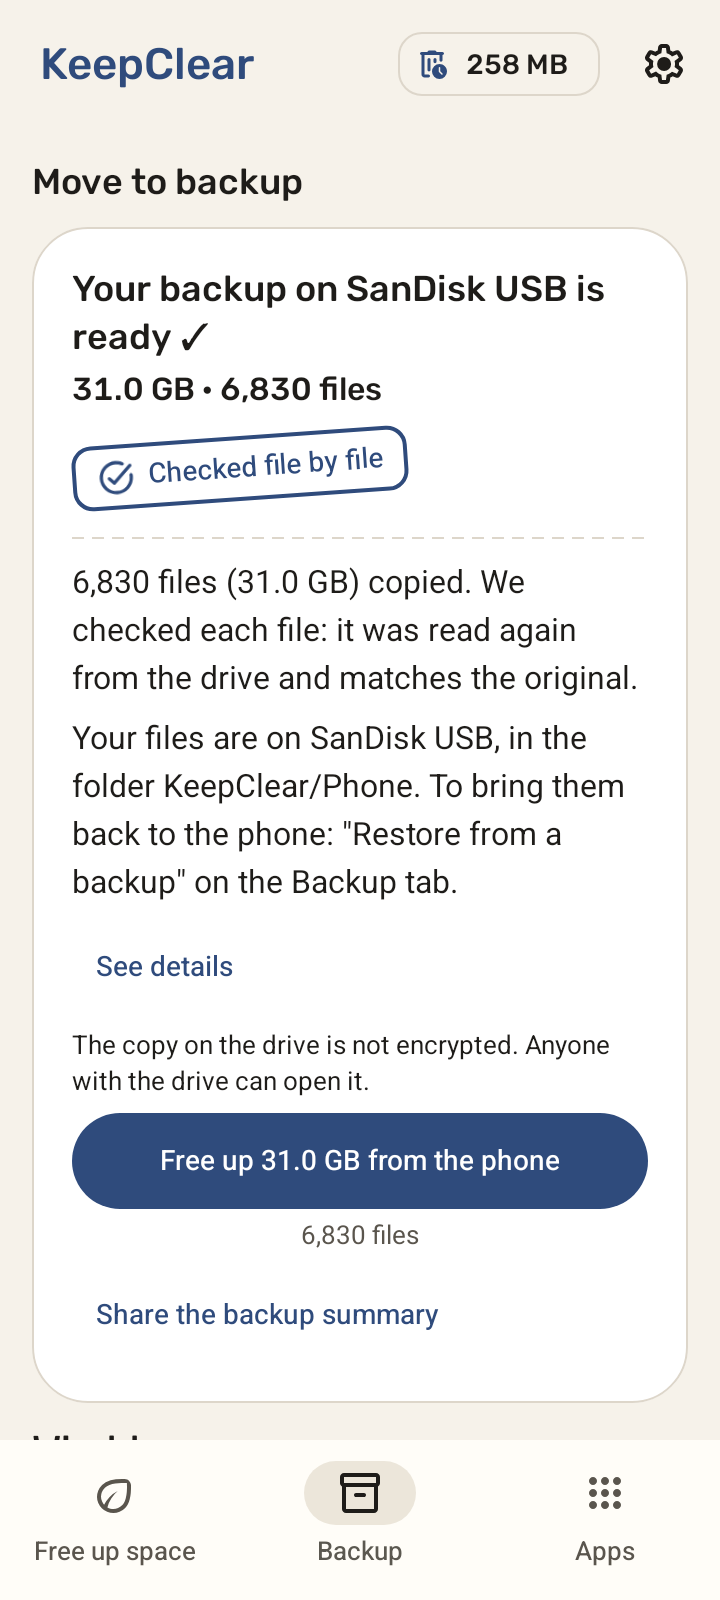
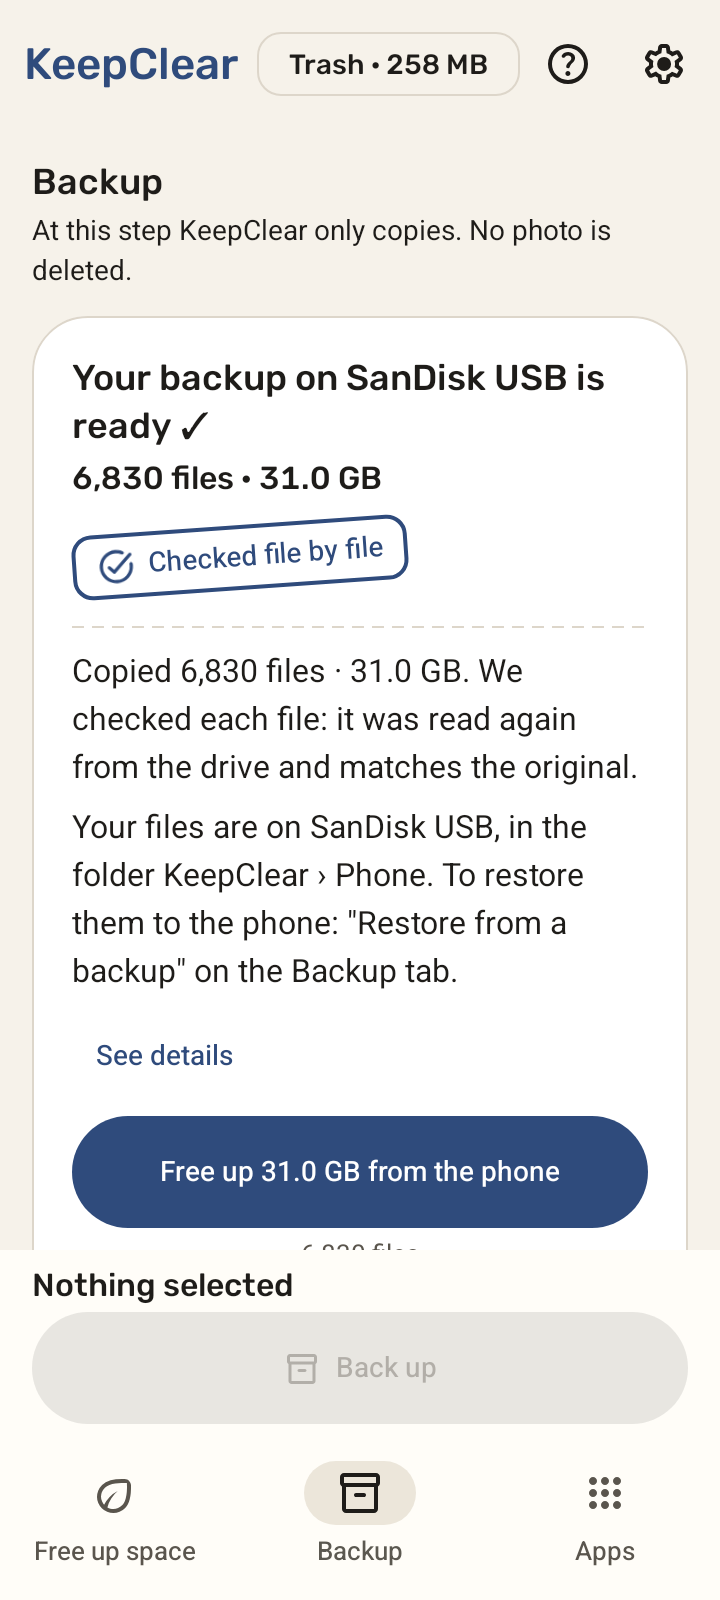
docs: PR H6 gallery „Final polish (H1–H5)” (before de5e351 → after), store screenshots refreshed plus 4_confirm, listing and changelog follow P1/P2 and H3, progress (row, C195-C198, findings), hebrew review
Claude-Session: https://claude.ai/code/session_01SRnKih2VccXWw3ykcXXeMH

diff --git a/docs/progress.md b/docs/progress.md
@@ -80,6 +80,7 @@ Scope and rules: the owner's review brief (PRs D, E, F1, F2, F3). Feature freeze
 | PR H3 help, trust, finish | local, not yet PR | — | Owner brief H3 items 1–7 (HELP-1…7; ux-flows § "H3"; decisions C161–C171). **1 Help** (`HelpScreen.kt`): offline topics as data (`HelpTopics`, string resources in `help.xml` per language, parity checked; H4 adds its two topics there), from a "?" in the main top bar and Settings' „עזרה” card; Settings' „איך משחזרים קבצים” links to the Trash and to „לשחזר מגיבוי”; the texts' facts are pinned to the code (`PermanentKinds`, `TrashPolicy`, `BatteryPolicy`, the quoted labels). **2 Report a problem** (`ReportProblem.kt`): a sheet with the editable email text (prompt + English facts from totals only, no paths), optional diagnostics file (the device check's report, release builds too) through a FileProvider limited to KeepClear's cache, ACTION_SENDTO `mailto:` (ACTION_SEND + mailto selector with the file), copy when no email app; address empty (W14). **3 Crash card** (`CrashReport.kt`): ApplicationExitInfo (crash, native crash, ANR) + KeepClear's own redacted Java trace, offered once on Home, shared through the share sheet; no SDK. **4 History** (`History.kt`, `HistoryScreen.kt`): versioned private file (C163), recorded from clean, consent, trash runs (empty/release/restore), last-copy confirm, cache trim, P1 free, restore from backup, finished backups and the daily purge; „פיניתם עד היום” counts only space really freed; test mode records nothing destructive (C164); `RestoreReport.restoredBytes` added. **5 About** (`AboutScreen.kt`): version and build, source, privacy, translations and credit (W15), licences as data checked against the build files and THIRD_PARTY.md (MIT text added for SLF4J, MBassador, Bouncy Castle); "What's new" gated by version code (none listed). **6 Icon**: three Paper & Ink adaptive options (vector, monochrome layers), option 1 is the launcher icon (both flavors) and the notification icon; [gallery](design/gallery.md#app-icon-options-pr-h3); core-splashscreen 1.2.0 (new dependency, steps of CLAUDE.md) with paper splash and window background, light and dark (W16 icon choice). **7 Shortcuts**: „לפנות מקום”, „סל המחזור”, „לגבות” (static, test builds have their own copy), navigation only. Tests: `H3HelpTest`, `H3ReportTest`, `H3HistoryTest`, `H3AboutTest`, `H3ShortcutsTest`, `H3ScreenshotTest` (help, topic, report, crash card, history, history empty, about, icon options; en/he, light/dark), `TerminologyTest` now reads help.xml, `RestoreEngineTest` (restored bytes). Mutations, each reverted once and seen to fail its test: clean not recorded, trash run (restore/empty) not recorded, a move to the trash counted as freed, test-mode results recorded (`H3HistoryTest`); the report's facts not cleaned, crash messages kept, an exit offered every launch, the attachment dropped (`H3ReportTest`); a shortcut that restores from the trash, any intent action taken as a shortcut (`H3ShortcutsTest`); a white window background, What's new on a first install, a licence missing (`H3AboutTest`); the restore card without its links, no question mark (`H3HelpTest`); restored bytes not counted (`RestoreEngineTest`); the Trash chip cut at 200 % with the new "?" (F3's existing test, C171). |
 | PR H4 platform and accessibility | local, not yet PR | — | Owner brief H4 items 1–9 (decisions C172–C186; ux-flows § "H4"). **1** `android:manageSpaceActivity` → `ManageSpaceActivity` (`ManageSpace.kt`, not exported, fully qualified: a relative name pointed into the test build's `.test` package, found by Robolectric): trash count and size, why "Clear storage" is replaced, „לפתוח את סל המחזור” (the Trash, where „לרוקן את הסל” keeps its second confirmation; nothing is wiped here, C173); `hasFragileUserData="true"`; Help topic „המקום של KeepClear והסרת ההתקנה”. **2** `enableOnBackInvokedCallback="true"`; no onBackPressed/KEYCODE_BACK (source scan); the root BackHandler stays enabled only when it pops something; `PredictiveBackHandler` in a group leaves the selection first (C174); sheets slide (window animation, none under "Remove animations"). **3** `NavigationSuiteScaffoldLayout` + `NavigationSuite` (material3-adaptive-navigation-suite 1.4.0, stable, from the Compose BOM; new dependency per CLAUDE.md: libs.versions.toml, verification metadata, verification-extras.py, PRIV-1 `androidx.`) with KeepClear's 600 dp threshold and labels (C180); `adjustResize` + `imePadding` on every sub-screen (`SubScreenFrame`, C182); scan and selections live in the ViewModels (rotation keeps them). **4** asked in context only (backup start, reminder switches; test that no other path asks); `NotificationChannels`: „התקדמות הגיבוי”, „תוצאות גיבוי” (new channel for results, C179), „תזכורות על מקום”, „תזכורות גיבוי”, registered at start and on every configuration (language) change; Settings › „התראות” rows open each channel's page. **5** `KillDetection.kt`: `ApplicationExitInfo` reasons → `StopCause`; a job found running gets STOPPED_BY_PHONE only for a system stop (LOW_MEMORY, EXCESSIVE_RESOURCE_USAGE, FREEZER, OTHER, SIGNALED, USER_REQUESTED, C172), INTERRUPTED for a crash (Home's crash card says it), an update, anything else or no record (replaces C125); the card adds „לאפשר לגיבוי לרוץ ברקע” (`ACTION_IGNORE_BATTERY_OPTIMIZATION_SETTINGS`, no restricted permission) and the maker's steps (`BatterySteps`, data: OnePlus, Samsung, Xiaomi/Redmi/POCO, Huawei/Honor, Oppo, Realme, Vivo/iQOO, general) with „לפתוח את המדריך המלא לטלפון הזה” (dontkillmyapp.com/<maker> in the browser); Help's „הגיבוי נעצר” ends with the same steps; Settings › „פתרון בעיות”: „הגיבוי רץ לאחרונה: …” (`BackupRunLog`). **6** `KcContrast` + medium/high schemes from `UiModeManager.getContrast()` (API 34+; `ContrastTest`: every pair passes and none gets weaker than standard, high ≥ 7:1 for text, C176); filled buttons and the confirm button 56 dp, others ≥ 48 dp (C175); paneTitle on ConfirmSheet; Trash rows have Restore / „לפנות עכשיו” custom actions; app rows merge; every animation honours reducedMotion (scan); there is no timed undo (C181). **7** API 30–32: the in-app language is KeepClear's own setting applied in `attachBaseContext` of the application, activities and the service (`AppLanguage`, no AppCompat, C177); `generateLocaleConfig = true` (+ `res/resources.properties`, the hand-written locales_config.xml removed); „לבחור בהגדרות של אנדרואיד” opens `ACTION_APP_LOCALE_SETTINGS` on 33+; `Languages.isHebrew` (he and iw) with a scan for one-spelling comparisons; every Hebrew plural has one/two/other (test; all already did). **8** `AppArchive`: on API 35+ „לארכב” when `PackageManager.isAppArchivable`, through `PackageInstaller.requestArchive` and Android's own confirmation (`ArchiveStatusReceiver` opens only a system activity, C178), blocked in test mode like Uninstall; rows show „אפליקציה … · נתונים … · קבצים זמניים …” (`AppSizes`). **9** `checkForbiddenApis` now also rejects Java 21 `List` methods (removeFirst/removeLast/getFirst/getLast/addFirst/addLast/reversed) in compiled classes (build-logic, C183); Help „מרחב פרטי”; `ManifestPolicy` (merged manifest): manage space, fragile data, predictive back, localeConfig, and no BOOT_COMPLETED listener except WorkManager's; `scripts/check-16kb-pages.py` on the release APKs in CI (one .so today, Compose's graphics-path, aligned; C184). Tests: `H4aPlatformTest`, `H4bAccessibilityTest`, `H4ScreenshotTest` (manage_space, troubleshooting, kill_card, home_high_contrast, home_largest at 200 % on a 290 dp screen; en/he, light/dark), `ContrastTest`, `ManifestPolicyTest`, `ForbiddenApisTest`, `H1bFlowTest` (item 8 now with a recorded exit), `H3HelpTest` (ten topics), `H2aHomeTest` (the phone's stop has a next step). Mutations, each seen to fail its test (`H4aPlatformTest`, `H4bAccessibilityTest`, `ContrastTest`, `ManifestPolicyTest`, `ForbiddenApisTest`): every found job STOPPED_BY_PHONE; the selection's Back handler off; no sheet animation; no `imePadding`; channel names from the application context (English under Hebrew); filled buttons 48 dp; no wrap below Android 13; Archive offered below API 35; Archive not blocked in test mode; no pane title; a relative manage-space name (Robolectric showed the `.test` package before the fix); a weaker high-contrast secondary text; the last run not recorded; no Trash-row custom actions; the List-method check off; the fragile-data check off; the boot-receiver check off. |
 | PR H5 power users | local, not yet PR | — | Owner brief H5 (POW-1…7; ux-flows § "H5"; decisions C187–C193). **Review group tools** (`GroupTools.kt`, `ReviewScreens.kt` `GroupToolsPanel`, `SelectionBar`, `LargestSheet`): a folded „למיין ולסנן” text button opens search (H1c's `GridSearch`, by name or date), „מהחדש לישן” (default, the month sections unchanged) / „מהישן לחדש” / „מהגדול לקטן” (one list), years („כל השנים” and each year of the group); with a filter „מוצגים N מתוך M” + „להציג הכול”, and „לבחור הכול” becomes „לבחור את כל המוצגים” (shown files only, C188); „לבחור את הגדולים ביותר” → sheet with 10/25/50/100 (only below the shown count, each with its size) selecting exactly the N largest shown, only on that tap (SAFETY rule 7, C189); the plan still goes through `CleanPlanner` and the choke point (SAFETY-8). Selection bar above the delete button: „נבחרו: N קבצים · X” (`countAndSize`), „N מהם לא מוצגים עכשיו”, „לבטל את הבחירה”. **Rules** (`UserChoices.kt` `UserRules`, `SettingsScreen.kt` `RuleRow`): Settings' card is „הכללים שלכם” with a line that cancelling never touches files; each rule shows its kind, the place in plain words (`HumanLocation.phonePlace`) and what it matched in the latest scan (only files the classifier really put under that rule, C190), with „לבטל את הבחירה” (key `rule_cancel`; `choice_remove` „להסיר” removed). After „לא להציע את זה שוב” a `NoticeBar` (new, core:designsystem) „KeepClear לא יציע שוב את <name>.” with „חזרה” (undo = cancel that rule), ≥ 10 s or Android's `getRecommendedTimeoutMillis`, whichever is longer (C191; C181's pin still holds). **Test mode export** (`TestExport.kt`): a test-mode clean keeps its would-delete ops (`CleanResult.wouldDelete`); the simulated result banner offers „לייצא את הרשימה” only when test mode is on → a sheet says the list has names, folders and sizes and is saved only where chosen → `ACTION_CREATE_DOCUMENT` (`text/csv`) → written off the main thread, only while test mode is still on; CSV `path,size_bytes,would` with RFC 4180 quoting and spreadsheet-formula neutralising (C193); PRIVACY.md "Test mode's list". **SMB** (`SmbFields` in `backup:target-smb`, `NetworkDriveDialog`): port („445”, empty = 445, 1–65535 digits only), folder inside the share (optional, „Backups/Phone”; no leading `/` or `\`, no `\`, `:`, `.`/`..` or empty segment), domain (optional, plain name; now also required by `SmbLocation`'s init); all with „אפשר להשאיר ריק” hints and errors under the field; saved values come back; `HostRule.NetworkOnly` unchanged. Discovery not built (C192). Tests: `H5PowerUsersTest` (21), `SmbFieldsTest` (4), `H5ScreenshotTest` (group_tools, rules, test_export, network_form; en/he, light/dark), `HebrewVoiceTest` (rule_cancel infinitive). Mutations, each reverted once and seen to fail: largest sorted ascending (2 tests); year filter ignored (2); „לבטל את הבחירה” calling nothing; any rule id counted as a match (after the test got a memory in a junk folder: the first version didn't catch it); no keep notice; a 4 s notice; no formula guard in the CSV; export offered with test mode off (2); the VM not keeping the list; the form dropping the port; select-all over the whole group with a filter; the largest pre-selected when the panel opens (2); `SmbFields.port` without the range; `SmbLocation` without the domain check; the folder check dropping empty segments ("/abs", "a//b" accepted). The explicit leading-`/` check alone is an equivalent mutant (the segment check also refuses it). |
+| PR H6 screenshots, gallery, store | local, not yet PR | — | Owner brief H6 (UI-3; decisions C195–C198). **Inventory:** of the named screens, first-run Home (`home_access`), post-clean Home (`result`), „הכול נקי ✓” (`home_all_clean`), backup mode (`backup_progress`), trash grid, restore sheet, help, intro pages and icon options already had en/he × light/dark pictures from H1–H5; Home, clean confirm, swipe and trash also at 200 %; tablet only Home (light). **Added** (`H6ScreenshotTest`, en/he × light/dark): `backup_copied` („הועתק ✓ · שלב אחרון: בדיקה”, no stamp), the re-plug check's four live states `backup_check_unplug` / `_plugback` / `_checking` / `_done` (stamp), `free_confirm` (P1/P2/P4: 6,830 originals with 120 favourites, 305 recent and WhatsApp photos; button ready) and `free_result` (measured). At 200 % (`KeyScreensScreenshotTest`, API 36): `home_access`, `home_all_clean`, `backup`, `backup_progress`, `free_confirm`. Tablet (`TabletScreenshotTest`, 1280 × 800 dp, Hebrew light + English dark, C195): `tablet_home`, `tablet_trash`, `tablet_backup_progress`, `tablet_swipe`, `tablet_free_confirm`, `tablet_help`; screens shown without `AppScreens` keep its readable width (`Shots.show(alone = true)`). **Fix (C197):** the Trash chip was cut at 100 % font on a 360 dp phone („Trash · 25…”, and „סל” missing in Hebrew) since the „?” joined the bar; the bar now goes compact (no chip icon, no gaps, as at ≥ 150 %) when the chip's words don't fit; `F3ScreensTest` (+2, en and he) failed with the fix reverted (both). Screenshots of every main tab re-recorded for it. **Gallery:** [„Final polish (H1–H5)”](design/gallery.md#final-polish-h1h5), before = de5e351 (C196). **Store:** `1_home`, `2_review`, `3_backup` refreshed from the new screenshots and a new `4_confirm` (the clean confirmation with „התמונות, הסרטונים והצ'אטים שלכם לא נמחקים.”) in both locales (C198); full description mentions the second check after re-plugging, favourites and the last 30 days kept on the phone, and Help/history; the changelog no longer says the trash restores "anything" (P1 and the rebuild kinds are deleted for good). **Findings (not fixed, too big for H6):** (1) the free confirmation's third row is still labelled „לאן” / "Where it goes" while its value says what happens („יימחקו מהטלפון; העותק נשאר ב-…”); H2 item 5 renamed only the clean confirmation's row to „מה יקרה”. (2) On a tablet the `ConfirmSheet` spans the whole 1280 dp width (no sheet max width), so lines run very long (`tablet_free_confirm`). (3) The free confirmation's WhatsApp line has no full stop (it is the brief's text verbatim). (4) On a tablet the swipe review is a full-window dialog (`usePlatformDefaultWidth = false`), so the card and its buttons stretch over 1280 dp instead of the readable width (`tablet_swipe`). |
 
 ## Test build for the phone (no computer needed)
 
@@ -361,6 +362,10 @@ C1–C26 were approved by the owner on 2026-11-02. New conservative decisions co
 | C192 | PR H5: no "מחפש מחשבים ברשת…" discovery; the form keeps manual entry with hints. Android's `NsdManager` needs no extra permission on API 30–36, but (1) at targetSdk 37 local-network discovery needs the new runtime permission `ACCESS_LOCAL_NETWORK` (research 04 §9), so the feature would bring a permission prompt with the next target bump; (2) Windows PCs, the usual "computer at home", don't announce SMB over mDNS (`_smb._tcp`), so the list would mostly be empty or show only NAS boxes, which reads as "your computer wasn't found"; (3) it can't be checked on the owner's network from here. Manual entry with „445” / „אפשר להשאיר ריק” is what the brief's fallback asks for. Revisit with W19. |
 | C193 | PR H5: the export is a CSV (`text/csv`, UTF-8, CRLF, English column names `path,size_bytes,would`, values `trash` / `delete_for_good`) saved through Android's "create document" screen, not the share sheet: the user picks a place they own, nothing passes through another app, and no FileProvider or cache copy is needed. File names are untrusted (threat model): cells are quoted per RFC 4180, line breaks flattened, and a cell starting with `= + - @` or a tab gets a leading apostrophe (CSV injection). It is written only if test mode is still on when Android returns the place. |
 | C194 | PR #60 (reproducible build): the check failed on 3af3ea5 (`classes.dex` and `assets/dexopt/baseline.prof` differed: the continuation parameter of kotlinx.coroutines' private `FlowKt__LimitKt.emitAbort` was typed `Continuation` in one build and `ContinuationImpl` in the other). **Cause:** AGP 9's default R8 *optimized resource shrinking* hands R8 the merged, not-compiled resources under their **absolute paths** (`…/app/build/intermediates/merged-not-compiled-resources/…`), and R8 9.5.28's code optimisation depends on those names and their order. Evidence: two clones of 3af3ea5 at different paths, same Gradle home and environment, gave exactly CI's two APKs (`1324c245…` at /home/user/kc-r8, `eaa3b878…` at /home/user/kc-r8b-second-checkout); R8's input dumps (`-Dcom.android.tools.r8.dumpinputtodirectory`) of the two were byte-identical except for that path prefix in the resource entries; R8 run alone on one dump flips between the two results when only the prefix or only the resource order is changed, and does not change with the program class order or the thread count; time zone, Java locale (he_IL) and umask 077 changed nothing. The commits after 4137abb only tipped R8. R8 9.5.29 (newest 9.5) behaves the same; a keep rule on `emitAbort` only moved the difference to its `access$` accessor, so a rule would chase each suspend function R8 happens to tip. **Fix:** `android.r8.optimizedResourceShrinking=false` in gradle.properties: R8 gets no resource input, and AGP's separate resource shrinker shrinks resources. Same APK entries; `resources.arsc` +2 KB, `classes.dex` +156 bytes. Verified: the two clones at different paths, the second with TZ Pacific/Kiritimati, Java locale he_IL and umask 077, give byte-identical APKs (`f0acb8a6…`). The option is deprecated (AGP prints a warning on every build) and is removed in AGP 10: before that upgrade, check with `scripts/reproducible-build.sh` whether R8 still depends on the resource paths. The reproducibility check itself is unchanged. |
+| C195 | PR H6: the tablet set is Hebrew light and English dark only (6 screens: Home, trash grid, backup mode, swipe, free confirm, Help), not the full en/he × light/dark cross product, and the new 200 % pictures are API 36 only (API 30 keeps Home and the clean confirm, C96): enough to see the rail, the readable width and both directions, while keeping CI time and the repository small. The re-plug check is pictured in all four live states. |
+| C196 | PR H6: the gallery's "before" is main de5e351 (PR H1a's parent, the commit the brief was written against), extracted with `git show de5e351:app/src/test/screenshots/<screen>_iw_light_api36.png` and scaled to 360 px like the earlier gallery (PIL, Lanczos, 256 colours). Screens with no picture at de5e351 (all-clean Home, free confirm and result, the re-plug check, Help) say "new screen"/"no screenshot" instead of being rendered from an old worktree: the free confirmation existed there but was a different flow (to the trash), and rendering it would need de5e351's whole build. The old placeholder icon has no screenshot; it is drawn from its own vector path data at de5e351 (white check in a ring on #1F5F4F). |
+| C197 | PR H6: the Trash chip's words were cut at 100 % font on a 360 dp phone (English „Trash · 25…”; Hebrew lost „סל”), seen in the committed screenshots since H3 added the „?” to the bar; the 200 % test (C171) didn't cover 100 %. Smallest fix: when the chip's text overflows once, the bar uses the existing compact layout of ≥ 150 % font (no chip icon, no gaps between the bar's items; icon buttons keep 48 dp). It stays compact for that composition (switching back would cut the words again and flip every frame). Real phones wider than ~390 dp are unchanged. |
+| C198 | PR H6: store screenshots stay copies of the light API 36 screenshot tests (C102), now `1_home`, `2_review`, `3_backup` (the receipt with „לפנות 31.0GB מהטלפון”) and a new `4_confirm` (the clean confirmation: what happens, the reassurance line, the ready button), same 720 × 1600 px, en-US and iw-IL. Swipe, trash and free confirm were not added, to keep the listing to the one-tap promise, choosing, backing up, and the safety line. |
 | C1 | Last-copy guard (owner 1.3): when a trashed archive lists this file as an extracted witness (sizes differ, so no same-hash check is possible), the file is also treated as the last copy and needs the confirm. |
 
 ## Waiting for owner

diff --git a/docs/hebrew-review.md b/docs/hebrew-review.md
@@ -960,7 +960,7 @@ Status compares each string with `docs/hebrew-review-reviewed.json` (the texts a
 
 | File | English | עברית |
 |---|---|---|
-| `changelogs/1.txt` | First version.<br>• Files you don't need cleared in one tap; everything else explained, and you decide.<br>• Photos and videos backed up to your own USB drive or network folder: copied, checked, and space freed only when you say so.<br>• 30-day trash: restore anything with one tap.<br>• Apps by size, duplicate review with a swipe, restore from a backup, an optional low-space reminder.<br>• English and Hebrew. | גרסה ראשונה.<br>• קבצים מיותרים מתנקים בלחיצה אחת; כל השאר מוסבר, וההחלטה שלכם.<br>• גיבוי תמונות וסרטונים לדיסק און קי או לתיקיית רשת שלכם: מועתקים, נבדקים, והמקום מתפנה רק כשמבקשים.<br>• סל המחזור ל-30 יום: אפשר לשחזר הכול בלחיצה אחת.<br>• אפליקציות לפי גודל, מעבר על כפילויות בהחלקה, שחזור מגיבוי, תזכורת לא חובה כשהמקום נגמר.<br>• עברית ואנגלית. |
-| `full_description.txt` | KeepClear finds what takes space on your phone and explains each thing in plain words. Nothing is deleted without asking you, and most of what you clean can come back for 30 days.<br><br><b>How it sorts what it finds</b> (on the "Free up space" and "Backup" tabs)<br><ul><br><li><b>Clean now</b>: temporary files, thumbnails, files already in other apps' bins. Cleared in one tap.</li><br><li><b>Choose what to delete</b>: large videos, screenshots, AI images, duplicates, old downloads, WhatsApp and Telegram media. Each item says why it was found and what happens if you delete it. Nothing is deleted unless you choose it, and nothing is selected for you.</li><br><li><b>Back up</b>: your photos and videos are never just deleted. KeepClear backs them up to your own USB drive, a folder you choose, or a shared folder on your computer or home server, reads every copy back to check it, shows you a receipt, and frees up space only when you tap "Free up" and confirm.</li><br></ul><br><br><b>Most of it can come back</b><br>Most of what you clean waits 30 days in the trash. Files that rebuild themselves are deleted right away. Restore it with one tap, or empty it sooner if you want the space now (KeepClear asks twice).<br><br><b>Also</b><br><ul><br><li>The Apps tab: see which apps use the most space and which you have not opened in about 6 months, and uninstall through Android's own window.</li><br><li>Go through a group (screenshots, for example) one by one with a swipe.</li><br><li>Restore files from a backup you made with KeepClear.</li><br><li>An optional reminder when space runs low. It only reminds; it never cleans by itself.</li><br><li>English and Hebrew, light and dark themes.</li><br></ul><br><br><b>Permissions, honestly</b><br>This build asks for <b>All files access</b>, so it can find WhatsApp media, folders from an old phone, other apps' bins and leftover files. It also asks, only when you use the feature, for usage access (to show app sizes and when apps were last opened), the list of installed apps, notifications (backup progress) and network access (only for backups to a shared folder you set up, at the address you typed). Every permission is optional and explained before Android asks; KeepClear works with less if you say no.<br><br><b>Private by design</b><br>No ads, no analytics, no crash reporting, no account. Nothing about you or your files is sent anywhere. KeepClear is free software under the GNU GPL, version 3 or later. | KeepClear מוצא מה תופס מקום בטלפון ומסביר כל דבר במילים פשוטות. שום דבר לא נמחק בלי לשאול, ואת רוב מה שמנקים אפשר לשחזר במשך 30 יום.<br><br><b>איך הממצאים מסודרים</b> (בלשוניות „לפנות מקום” ו„גיבוי”)<br><ul><br><li><b>לנקות עכשיו</b>: קבצים זמניים, תמונות ממוזערות, קבצים שכבר נמצאים בסלים של אפליקציות אחרות. מתנקה בלחיצה אחת.</li><br><li><b>לבחור מה למחוק</b>: סרטונים גדולים, צילומי מסך, תמונות שנוצרו ב-AI, כפילויות, הורדות ישנות, מדיה של וואטסאפ וטלגרם. ליד כל פריט כתוב למה הוא נמצא ומה יקרה אם מוחקים אותו. שום דבר לא נמחק בלי שתבחרו, ושום דבר לא מסומן מראש.</li><br><li><b>לגבות</b>: תמונות וסרטונים אף פעם לא פשוט נמחקים. KeepClear מגבה אותם לדיסק און קי שלכם, לתיקייה שבוחרים או לתיקייה משותפת במחשב או בשרת הביתי, קורא כל עותק שוב כדי לבדוק אותו, מציג אישור, ומפנה מקום רק כשלוחצים על „לפנות” ומאשרים.</li><br></ul><br><br><b>את רוב הדברים אפשר לשחזר</b><br>רוב מה שמנקים מחכה 30 יום בסל המחזור. קבצים שנבנים מחדש לבד נמחקים מיד. אפשר לשחזר בלחיצה אחת, או לרוקן מוקדם יותר כשצריך את המקום עכשיו (KeepClear שואל פעמיים).<br><br><b>ועוד</b><br><ul><br><li>הלשונית „אפליקציות”: לראות אילו אפליקציות תופסות הכי הרבה מקום ובאילו לא השתמשו כחצי שנה, ולהסיר אותן דרך החלון של אנדרואיד עצמו.</li><br><li>לעבור על קבוצה (למשל צילומי מסך) אחד-אחד, בהחלקה.</li><br><li>לשחזר קבצים מגיבוי שנעשה עם KeepClear.</li><br><li>תזכורת לא חובה כשהמקום נגמר. היא רק מזכירה, ואף פעם לא מנקה לבד.</li><br><li>עברית ואנגלית, ערכת נושא בהירה וכהה.</li><br></ul><br><br><b>הרשאות, בגלוי</b><br>הגרסה הזו מבקשת <b>גישה לכל הקבצים</b>, כדי למצוא מדיה של וואטסאפ, תיקיות מהטלפון הקודם, סלים של אפליקציות אחרות וקבצים שנשארו. היא מבקשת גם, רק כשמשתמשים בתכונה, גישה לנתוני שימוש (כדי להציג את הגודל של כל אפליקציה ומתי נפתחה לאחרונה), את רשימת האפליקציות המותקנות, התראות (התקדמות הגיבוי) וגישה לרשת (רק לגיבוי לתיקייה משותפת שהוגדרה, בכתובת שהוקלדה). כל ההרשאות לא חובה, וכל אחת מוסברת לפני שאנדרואיד שואל; KeepClear עובד גם עם פחות.<br><br><b>פרטיות מהיסוד</b><br>בלי פרסומות, בלי ניתוח שימוש, בלי דיווחי קריסה, בלי חשבון. שום דבר עליכם או על הקבצים שלכם לא נשלח לשום מקום. KeepClear הוא תוכנה חופשית ברישיון GNU GPL, גרסה 3 ואילך. |
+| `changelogs/1.txt` | First version.<br>• Files you don't need cleared in one tap; everything else explained, and you decide.<br>• Photos and videos backed up to your own USB drive or network folder: copied, checked, and space freed only when you say so.<br>• Most of what you clean waits 30 days in the trash: restore it with one tap.<br>• Apps by size, duplicate review with a swipe, restore from a backup, an optional low-space reminder.<br>• English and Hebrew. | גרסה ראשונה.<br>• קבצים מיותרים מתנקים בלחיצה אחת; כל השאר מוסבר, וההחלטה שלכם.<br>• גיבוי תמונות וסרטונים לדיסק און קי או לתיקיית רשת שלכם: מועתקים, נבדקים, והמקום מתפנה רק כשמבקשים.<br>• רוב מה שמנקים מחכה 30 יום בסל המחזור: אפשר לשחזר בלחיצה אחת.<br>• אפליקציות לפי גודל, מעבר על כפילויות בהחלקה, שחזור מגיבוי, תזכורת לא חובה כשהמקום נגמר.<br>• עברית ואנגלית. |
+| `full_description.txt` | KeepClear finds what takes space on your phone and explains each thing in plain words. Nothing is deleted without asking you, and most of what you clean can come back for 30 days.<br><br><b>How it sorts what it finds</b> (on the "Free up space" and "Backup" tabs)<br><ul><br><li><b>Clean now</b>: temporary files, thumbnails, files already in other apps' bins. Cleared in one tap.</li><br><li><b>Choose what to delete</b>: large videos, screenshots, AI images, duplicates, old downloads, WhatsApp and Telegram media. Each item says why it was found and what happens if you delete it. Nothing is deleted unless you choose it, and nothing is selected for you.</li><br><li><b>Back up</b>: your photos and videos are never just deleted. KeepClear backs them up to your own USB drive, a folder you choose, or a shared folder on your computer or home server, reads every copy back to check it, checks it once more after you unplug the drive and plug it back in, shows you a receipt, and frees up space only when you tap "Free up" and confirm. Favourites and the last 30 days stay on the phone unless you choose otherwise.</li><br></ul><br><br><b>Most of it can come back</b><br>Most of what you clean waits 30 days in the trash. Files that rebuild themselves are deleted right away. Restore it with one tap, or empty it sooner if you want the space now (KeepClear asks twice).<br><br><b>Also</b><br><ul><br><li>The Apps tab: see which apps use the most space and which you have not opened in about 6 months, and uninstall through Android's own window.</li><br><li>Go through a group (screenshots, for example) one by one with a swipe.</li><br><li>Restore files from a backup you made with KeepClear.</li><br><li>Help inside the app, also offline, and a history of what KeepClear did.</li><br><li>An optional reminder when space runs low. It only reminds; it never cleans by itself.</li><br><li>English and Hebrew, light and dark themes.</li><br></ul><br><br><b>Permissions, honestly</b><br>This build asks for <b>All files access</b>, so it can find WhatsApp media, folders from an old phone, other apps' bins and leftover files. It also asks, only when you use the feature, for usage access (to show app sizes and when apps were last opened), the list of installed apps, notifications (backup progress) and network access (only for backups to a shared folder you set up, at the address you typed). Every permission is optional and explained before Android asks; KeepClear works with less if you say no.<br><br><b>Private by design</b><br>No ads, no analytics, no crash reporting, no account. Nothing about you or your files is sent anywhere. KeepClear is free software under the GNU GPL, version 3 or later. | KeepClear מוצא מה תופס מקום בטלפון ומסביר כל דבר במילים פשוטות. שום דבר לא נמחק בלי לשאול, ואת רוב מה שמנקים אפשר לשחזר במשך 30 יום.<br><br><b>איך הממצאים מסודרים</b> (בלשוניות „לפנות מקום” ו„גיבוי”)<br><ul><br><li><b>לנקות עכשיו</b>: קבצים זמניים, תמונות ממוזערות, קבצים שכבר נמצאים בסלים של אפליקציות אחרות. מתנקה בלחיצה אחת.</li><br><li><b>לבחור מה למחוק</b>: סרטונים גדולים, צילומי מסך, תמונות שנוצרו ב-AI, כפילויות, הורדות ישנות, מדיה של וואטסאפ וטלגרם. ליד כל פריט כתוב למה הוא נמצא ומה יקרה אם מוחקים אותו. שום דבר לא נמחק בלי שתבחרו, ושום דבר לא מסומן מראש.</li><br><li><b>לגבות</b>: תמונות וסרטונים אף פעם לא פשוט נמחקים. KeepClear מגבה אותם לדיסק און קי שלכם, לתיקייה שבוחרים או לתיקייה משותפת במחשב או בשרת הביתי, קורא כל עותק שוב כדי לבדוק אותו, בודק שוב אחרי שמנתקים את הדיסק און קי ומחברים אותו מחדש, מציג אישור, ומפנה מקום רק כשלוחצים על „לפנות” ומאשרים. מועדפים ו-30 הימים האחרונים נשארים בטלפון, אלא אם בוחרים אחרת.</li><br></ul><br><br><b>את רוב הדברים אפשר לשחזר</b><br>רוב מה שמנקים מחכה 30 יום בסל המחזור. קבצים שנבנים מחדש לבד נמחקים מיד. אפשר לשחזר בלחיצה אחת, או לרוקן מוקדם יותר כשצריך את המקום עכשיו (KeepClear שואל פעמיים).<br><br><b>ועוד</b><br><ul><br><li>הלשונית „אפליקציות”: לראות אילו אפליקציות תופסות הכי הרבה מקום ובאילו לא השתמשו כחצי שנה, ולהסיר אותן דרך החלון של אנדרואיד עצמו.</li><br><li>לעבור על קבוצה (למשל צילומי מסך) אחד-אחד, בהחלקה.</li><br><li>לשחזר קבצים מגיבוי שנעשה עם KeepClear.</li><br><li>עזרה בתוך האפליקציה, גם בלי אינטרנט, ורשימה של מה ש-KeepClear עשה.</li><br><li>תזכורת לא חובה כשהמקום נגמר. היא רק מזכירה, ואף פעם לא מנקה לבד.</li><br><li>עברית ואנגלית, ערכת נושא בהירה וכהה.</li><br></ul><br><br><b>הרשאות, בגלוי</b><br>הגרסה הזו מבקשת <b>גישה לכל הקבצים</b>, כדי למצוא מדיה של וואטסאפ, תיקיות מהטלפון הקודם, סלים של אפליקציות אחרות וקבצים שנשארו. היא מבקשת גם, רק כשמשתמשים בתכונה, גישה לנתוני שימוש (כדי להציג את הגודל של כל אפליקציה ומתי נפתחה לאחרונה), את רשימת האפליקציות המותקנות, התראות (התקדמות הגיבוי) וגישה לרשת (רק לגיבוי לתיקייה משותפת שהוגדרה, בכתובת שהוקלדה). כל ההרשאות לא חובה, וכל אחת מוסברת לפני שאנדרואיד שואל; KeepClear עובד גם עם פחות.<br><br><b>פרטיות מהיסוד</b><br>בלי פרסומות, בלי ניתוח שימוש, בלי דיווחי קריסה, בלי חשבון. שום דבר עליכם או על הקבצים שלכם לא נשלח לשום מקום. KeepClear הוא תוכנה חופשית ברישיון GNU GPL, גרסה 3 ואילך. |
 | `short_description.txt` | Free up space: clean in one tap, the rest explained, photos backed up first | לפנות מקום בטלפון: לנקות בלחיצה אחת, הסבר לכל השאר, גיבוי לתמונות לפני הכול |
 | `title.txt` | KeepClear | KeepClear |

diff --git a/docs/design/gallery.md b/docs/design/gallery.md
@@ -67,3 +67,45 @@ Hebrew, light theme, from the screenshot tests (`H3ScreenshotTest`; English and 
 | Help | A topic | Report a problem | After a crash | What KeepClear did | About |
 |---|---|---|---|---|---|
 | ![Help](../../app/src/test/screenshots/help_iw_light_api36.png) | ![Help topic](../../app/src/test/screenshots/help_topic_iw_light_api36.png) | ![Report](../../app/src/test/screenshots/report_iw_light_api36.png) | ![Crash card](../../app/src/test/screenshots/crash_card_iw_light_api36.png) | ![History](../../app/src/test/screenshots/history_iw_light_api36.png) | ![About](../../app/src/test/screenshots/about_iw_light_api36.png) |
+
+## Final polish (H1–H5)
+
+The owner's final-polish brief (2026-11-03), PR H6. **Before** is main **de5e351**, the commit the H round started from (PR H1a's parent): the
+screenshots committed there (`git show de5e351:app/src/test/screenshots/<screen>_iw_light_api36.png`). Where de5e351 had no
+screenshot of the screen, the row says "new screen" and why (progress C196). **After** is the screenshot tests at PR H6
+(`app/src/test/screenshots/*_iw_light_api36.png`). Both Hebrew, light theme, on the owner-shaped phone (`OwnerPhone`),
+scaled to 360 px wide like the rows above. English, dark, 200 % and tablet (`tablet_*`) are next to them in
+`app/src/test/screenshots/`. Also new in PR H6: the Trash chip no longer cuts its words on a 360 dp phone (progress C197),
+so every main tab's top bar in "after" differs from H5's screenshots there.
+
+| Screen | Before (de5e351) | After |
+|---|---|---|
+| First-run Home: one access card, lanes say „יופיע אחרי האישור” (H2 item 2) | ![First-run Home before](gallery/h-before/home_access.png) | ![First-run Home after](gallery/h-after/home_access.png) |
+| Clean confirm: „מה יקרה”, red only for other apps' bins, the reassurance line (H2 item 5) | ![Clean confirm before](gallery/h-before/confirm_clean.png) | ![Clean confirm after](gallery/h-after/confirm_clean.png) |
+| Right after cleaning: the cleaned items gone from the totals, the hero at the measured free space (H2 item 6) | ![Result before](gallery/h-before/result.png) | ![Result after](gallery/h-after/result.png) |
+| „הכול נקי ✓” the next day, pointing to the backup (H2 item 6) | New state: de5e351 had no screenshot of Home with nothing left to clean (its hero offered the zero size) | ![All clean after](gallery/h-after/home_all_clean.png) |
+| Backup tab: „גיבוי”, „בשלב הזה רק מעתיקים”, the sticky „לגבות” bar (H1 items 1–2) | ![Backup before](gallery/h-before/backup.png) | ![Backup after](gallery/h-after/backup.png) |
+| Backup mode: the guidance lines and one progress line (H1 item 4) | ![Backup mode before](gallery/h-before/backup_progress.png) | ![Backup mode after](gallery/h-after/backup_progress.png) |
+| Copied, before the second check: „הועתק ✓ · שלב אחרון: בדיקה”, no stamp yet (H1 item 6) | ![Summary before](gallery/h-before/backup_summary.png) (de5e351 showed the stamp before asking to check again) | ![Copied after](gallery/h-after/backup_copied.png) |
+| Free confirm: the honest sentence, the WhatsApp line, „להשאיר בטלפון” options ticked (P1, P2, P4) | No screenshot at de5e351: its confirmation (a sheet that moved the originals to the trash, without options) was never recorded | ![Free confirm after](gallery/h-after/free_confirm.png) |
+| After freeing: the measured result with „לשחזר מגיבוי” (H1 item 7) | New screen: no screenshot at de5e351 | ![Free result after](gallery/h-after/free_result.png) |
+| Trash: a grid of pictures by month (H1 item 9) | ![Trash before](gallery/h-before/trash.png) | ![Trash after](gallery/h-after/trash.png) |
+| Restore from a backup: a sheet, by month, „לתיקיית השחזורים” (H1 item 9) | ![Restore before](gallery/h-before/restore.png) | ![Restore after](gallery/h-after/restore.png) |
+| Swipe: „לסיים ולבדוק”, equal Keep and Delete, „חזרה”, the date (H2 item 8) | ![Swipe before](gallery/h-before/swipe.png) | ![Swipe after](gallery/h-after/swipe.png) |
+| Help (H3 item 1) | New screen: de5e351 had no Help | ![Help after](gallery/h-after/help.png) |
+| App icon: three Paper & Ink options; option 1 is in the app (H3 item 6, W16) | ![Icon before](gallery/h-before/icon_options.png) | ![Icon options after](gallery/h-after/icon_options.png) |
+
+**The re-plug check** (H1 item 6), a new screen: its live states, then the stamp.
+
+| Unplug | Unplugged ✓, plug it back in | Checking | Checked |
+|---|---|---|---|
+| ![Unplug](gallery/h-after/backup_check_unplug.png) | ![Plug back](gallery/h-after/backup_check_plugback.png) | ![Checking](gallery/h-after/backup_check_checking.png) | ![Checked](gallery/h-after/backup_check_done.png) |
+
+**Intro** (H2 item 1): de5e351 had one intro picture (the first page, no illustration, its counter read "3 / 1" in Hebrew); now each of the three pages has its own picture and „1 מתוך 3”.
+
+| Before (de5e351) | Page 1 | Page 2 | Page 3 |
+|---|---|---|---|
+| ![Intro before](gallery/h-before/intro.png) | ![Intro 1](gallery/h-after/intro_1.png) | ![Intro 2](gallery/h-after/intro_2.png) | ![Intro 3](gallery/h-after/intro_3.png) |
+
+The icon's "before" is de5e351's placeholder (a white check in a ring on the old green, square and in the launcher's
+circle), drawn from its own vector (`ic_launcher_foreground.xml` at de5e351) because no screenshot of it existed.
